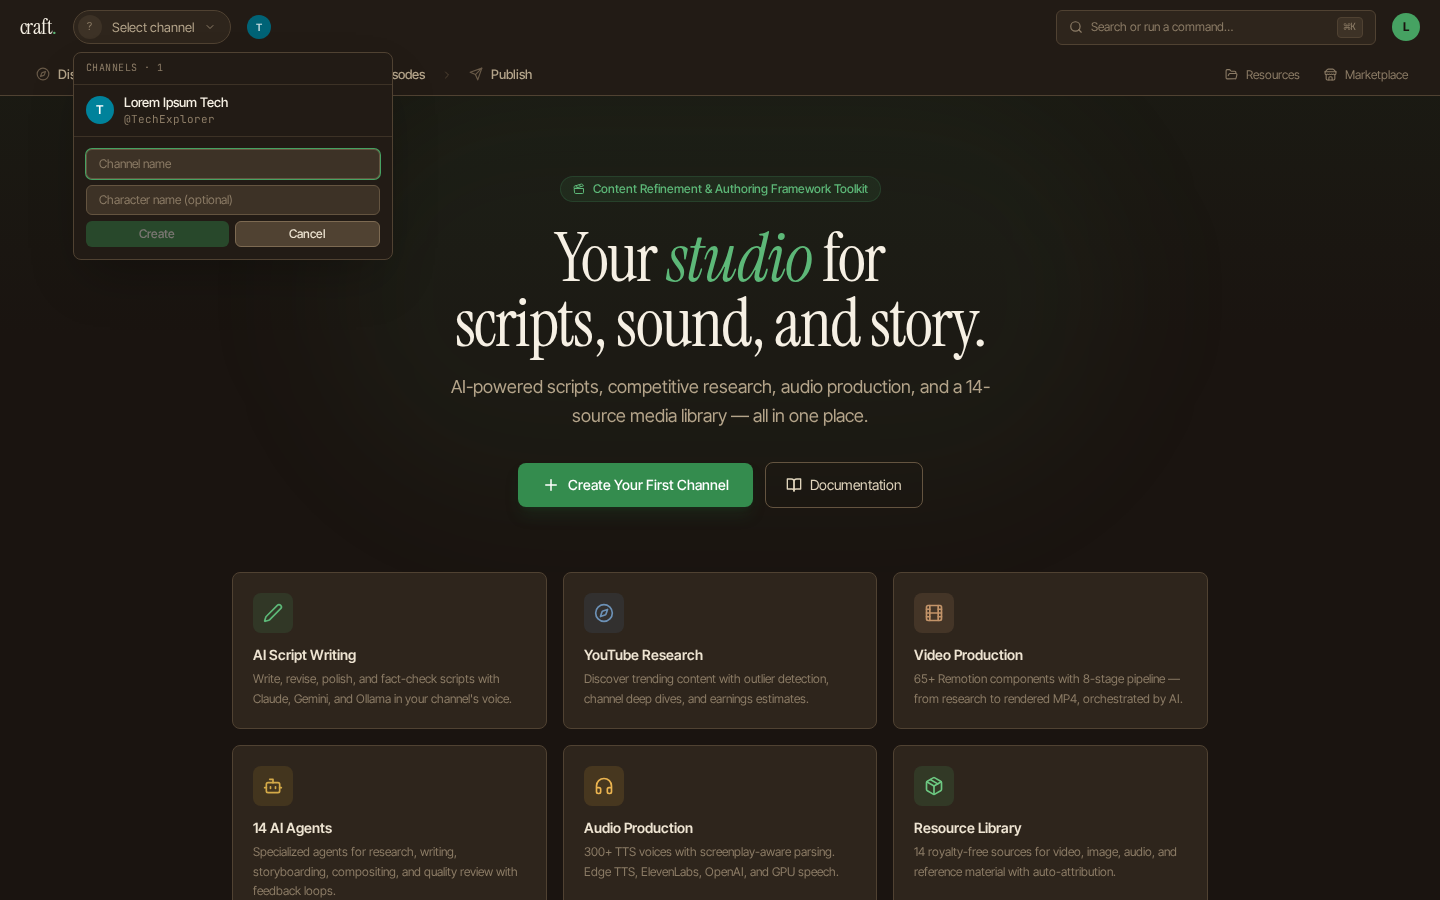
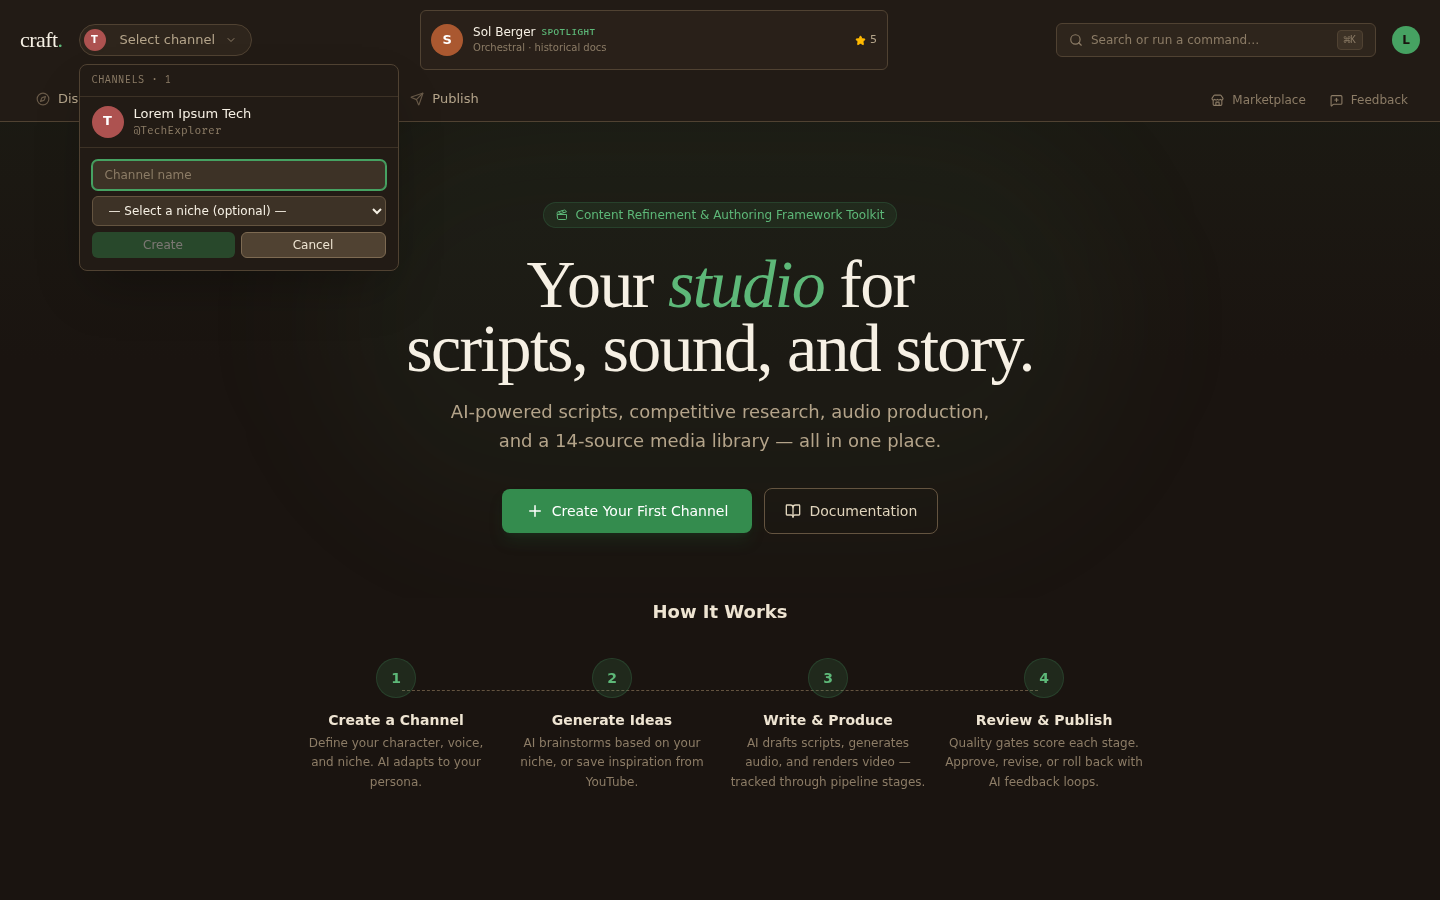
docs: drop standalone Ideas page + retake screenshots after IA cleanup
The /guide/ideas page describes a panel that no longer exists in the
app; episodes is the unified backlog now (Proposals → Create Episode
and Discover → Inspire both land on the kanban). Removed the page,
deleted the sidebar entry, and reordered the "Make content" group so
Episodes / Proposals / Discover lead.

Refreshed screenshots for the post-IA flow:
- create-channel-* — the channel-pill dropdown selector matched a
  direct-child div that no longer exists after the avatar cluster
  refactor; relaxed `:has(> div.rounded-full)` to descendant match
  in the spec, which is also re-used by the profile-popover and
  selectChannel helpers. The PNGs reflect the new New-Channel form
  (custom-niche option included).
- script-editor-* and fact-check-* — pulled in the post-IA editor
  rail with the Localize / Run ▶ surface.
- episodes-panel-* — refreshed against the kanban + queued-stage
  feedback affordances.

Index page copy: dropped the "Track Jobs" bullet (Jobs is now an
embedded section under Proposals, not a top-level surface), added a
"Collaborate" bullet that points at the per-channel role grants +
timeline review comments, swapped the lead screenshot from the gone
Ideas panel to the Episodes kanban, retuned the stage-rail line
(`Discover → Proposals → Episodes → Publish`), and updated the
Next-Steps list (Episodes + Proposals replace Ideas).

diff --git a/screenshots.spec.ts b/screenshots.spec.ts
@@ -184,7 +184,7 @@ async function setView(page: Page, view: string) {
 /** Open the channel pill dropdown and click a labelled action (Channel settings). */
 async function clickChannelDropdown(page: Page, label: string) {
   // The pill is the first button in the header after the logo.
-  const pill = page.locator('header button:has(> div.rounded-full)').first();
+  const pill = page.locator('header button:has(div.rounded-full)').first();
   if (!(await pill.isVisible())) return;
   await pill.click();
   await page.waitForTimeout(300);
@@ -854,7 +854,7 @@ test.describe('Documentation Screenshots', () => {
 
       test('create channel form', async ({ page }) => {
         // Open the channel pill dropdown and click "New channel"
-        const pill = page.locator('header button:has(> div.rounded-full)').first();
+        const pill = page.locator('header button:has(div.rounded-full)').first();
         if (await pill.isVisible()) {
           await pill.click();
           await page.waitForTimeout(300);
@@ -895,7 +895,7 @@ test.describe('Documentation Screenshots', () => {
         await selectChannel(page);
         await page.waitForTimeout(400);
         // Open the channel pill dropdown so Settings/Proposals/Jobs items are visible
-        const pill = page.locator('header button:has(> div.rounded-full)').first();
+        const pill = page.locator('header button:has(div.rounded-full)').first();
         if (await pill.isVisible()) {
           await pill.click();
           await page.waitForTimeout(300);

diff --git a/guide/index.md b/guide/index.md
@@ -11,12 +11,12 @@ CRAFT Studio is a YouTube content creation platform with AI-powered idea generat
 - **Curate Content** — AI-scored proposals, approval workflows, and episode pipeline tracking
 - **Produce Audio** — 300+ TTS voices with screenplay-aware parsing, GPU speech synthesis, and voice cloning
 - **Find Resources** — Search 14 royalty-free sources for video, image, audio, and reference material
-- **Track Jobs** — Async NATS workers for AI generation, rendering, and downloads with real-time SSE updates
+- **Collaborate** — invite editors, video editors, and voice actors per channel; review notes pin to the timeline
 - **Go Mobile** — Android companion app with full dashboard parity over your local network
 
 <SchemeImage name="top-chrome" alt="Top chrome — the Flow redesign layout" />
 
-<SchemeImage name="ideas-panel" alt="Ideas Panel" />
+<SchemeImage name="episodes-panel" alt="Episodes kanban — every show is a card moving across the pipeline" />
 
 <SchemeImage name="channel-dive" alt="Channel Deep Dive" />
 
@@ -27,10 +27,10 @@ The Studio is organised around a **top chrome** — a single header bar — rath
 - **Logo · channel pill** on the left
 - **Ad / promo slot** between the channel pill and the search box. Free-tier users see a curated affiliate offer for creator tools (ElevenLabs, Descript, etc); active subscribers see a rotating marketplace spotlight; the slot collapses on narrow viewports.
 - **⌘K command palette** slot in the middle-right
-- **Stage rail** on the row below (`Discover → Ideas → Scripts → Episodes → Publish`) — the workflow stages, with **Marketplace · Settings · Feedback** on the far right
+- **Stage rail** on the row below (`Discover → Proposals → Episodes → Publish`) — the workflow stages, with **Marketplace · Settings · Feedback** on the far right. Proposals only appears for premium users.
 - **Avatar menu** top-right (API keys, password change, theme, sign out)
 
-Channel-scoped actions (Proposals, Jobs, channel Settings) live inside the channel-pill dropdown. See [Top chrome & ⌘K](/guide/command-palette) for the full tour.
+Channel settings live inside the channel-pill dropdown. Jobs are inlined as a section under Proposals. Ideas no longer has its own panel — Episodes is the single backlog (Proposals → "Create Episode" and Discover → "Inspire" both land on the kanban). See [Top chrome & ⌘K](/guide/command-palette) for the full tour.
 
 ## Architecture
 
@@ -55,15 +55,16 @@ Mobile App ──> Same Studio API (local network)
 Once you're signed in, the top chrome gives you everything:
 
 - **Channel pill** on the left — switch channels, or create your first one.
-- **Stage rail** across the middle — Discover → Ideas → Scripts → Episodes → Publish.
+- **Stage rail** across the middle — Discover → Proposals → Episodes → Publish.
 - **⌘K** — search and navigate everything without leaving the keyboard.
 
 ::: tip
-Only a Gemini or Claude API key (set in the avatar menu → API keys) is needed to start generating. Most features work without any paid keys at all.
+Ollama runs locally and is available to every user — no API key required. Add a Gemini or Claude key (avatar menu → API keys) to unlock those providers.
 :::
 
 ## Next steps
 
 - [Top chrome & ⌘K](/guide/command-palette) — the shortest tour of the new layout
 - [Channels](/guide/channels) — create your first channel
-- [Ideas](/guide/ideas) — start generating content ideas
+- [Episodes](/guide/episodes) — your single backlog and pipeline
+- [Proposals](/guide/proposals) — AI brainstorms your next episode
